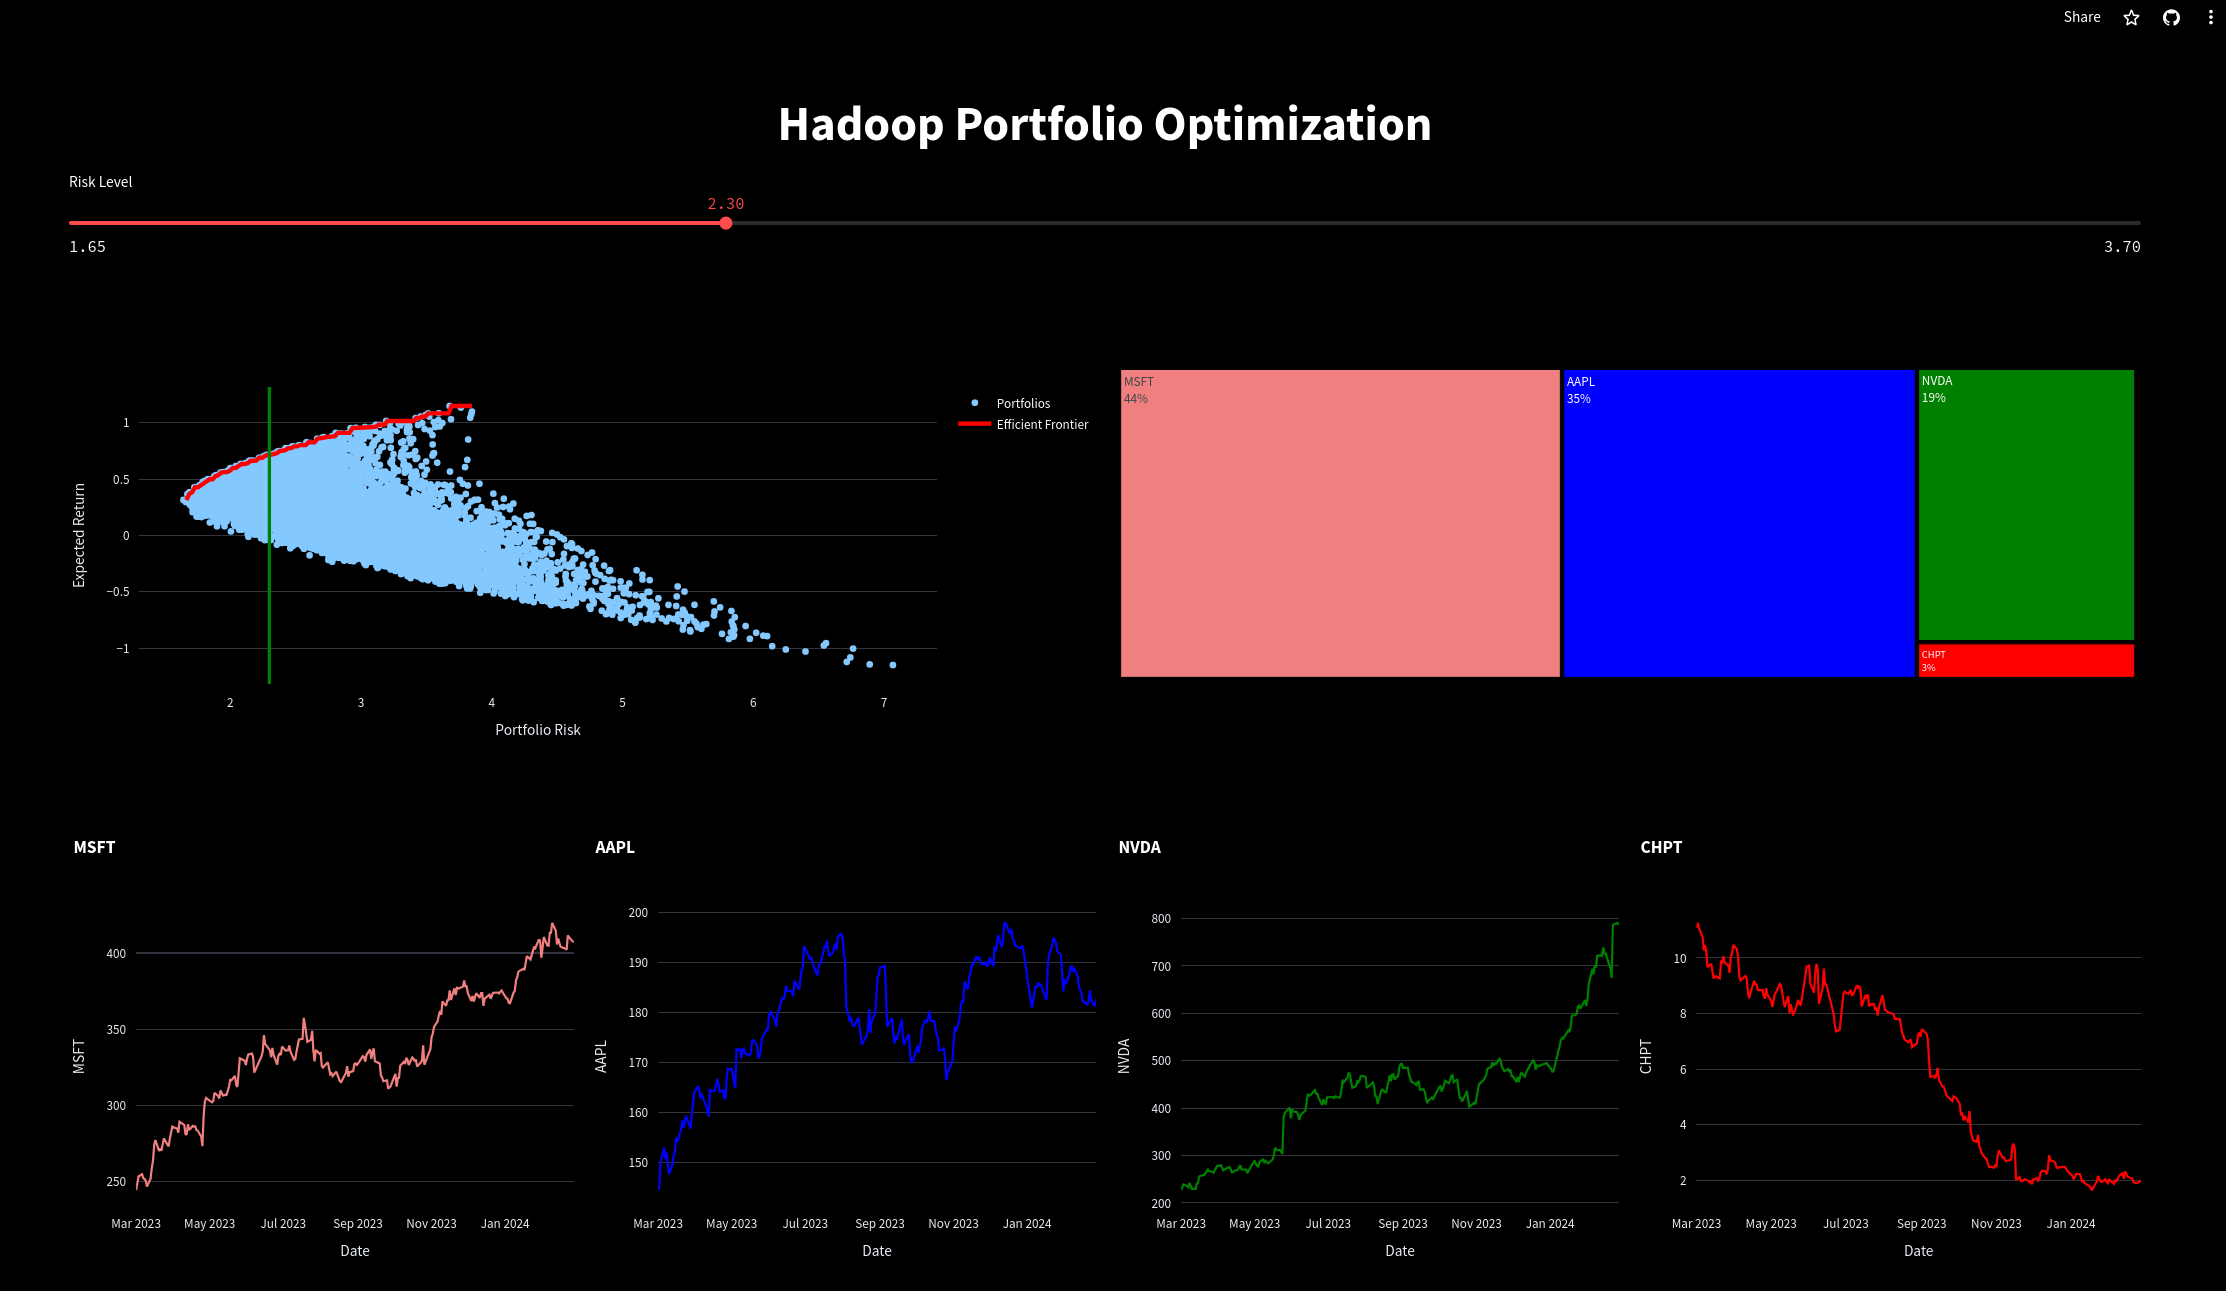
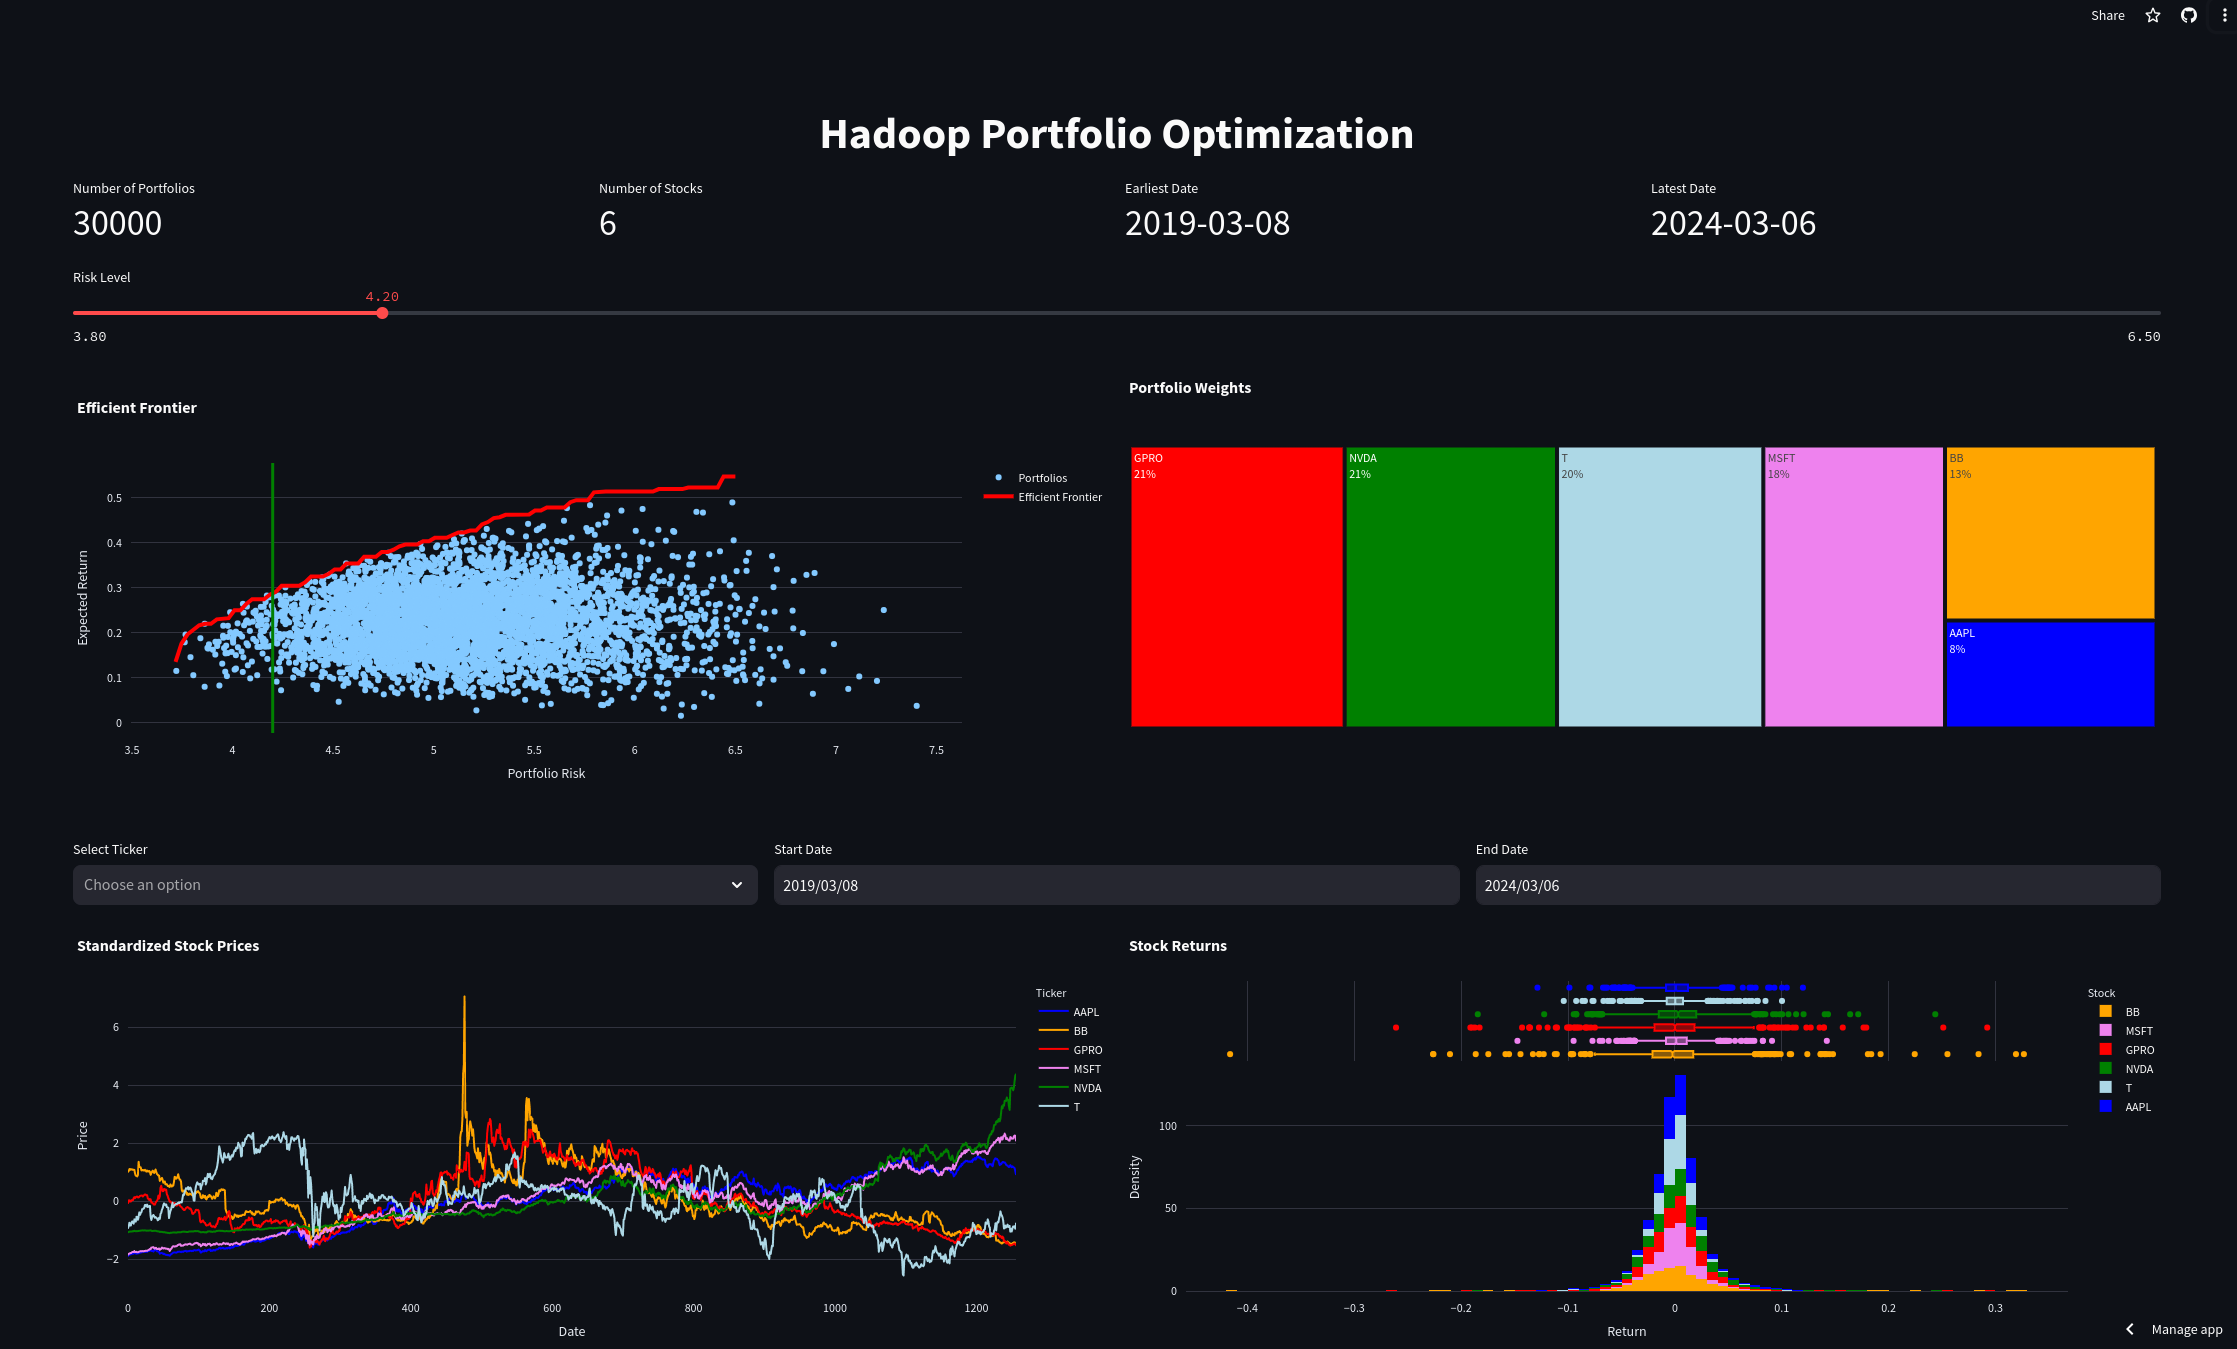
V2

diff --git a/README.md b/README.md
@@ -4,7 +4,9 @@ This project demonstrates a simple implmentation of Markowitz's Modern Portfolio
 - Microsoft (MSFT)
 - Apple (AAPL)
 - NVDA (NVIDIA)
-- ChargePoint Holdings (CHPT)
+- Black Berry (BB)
+- GoPro (GPRO)
+- AT&T (T)
 
 The results of this portfolio optimization can be viewed in this interactive dashboard:
 - https://hadoop-portfolio.streamlit.app/
